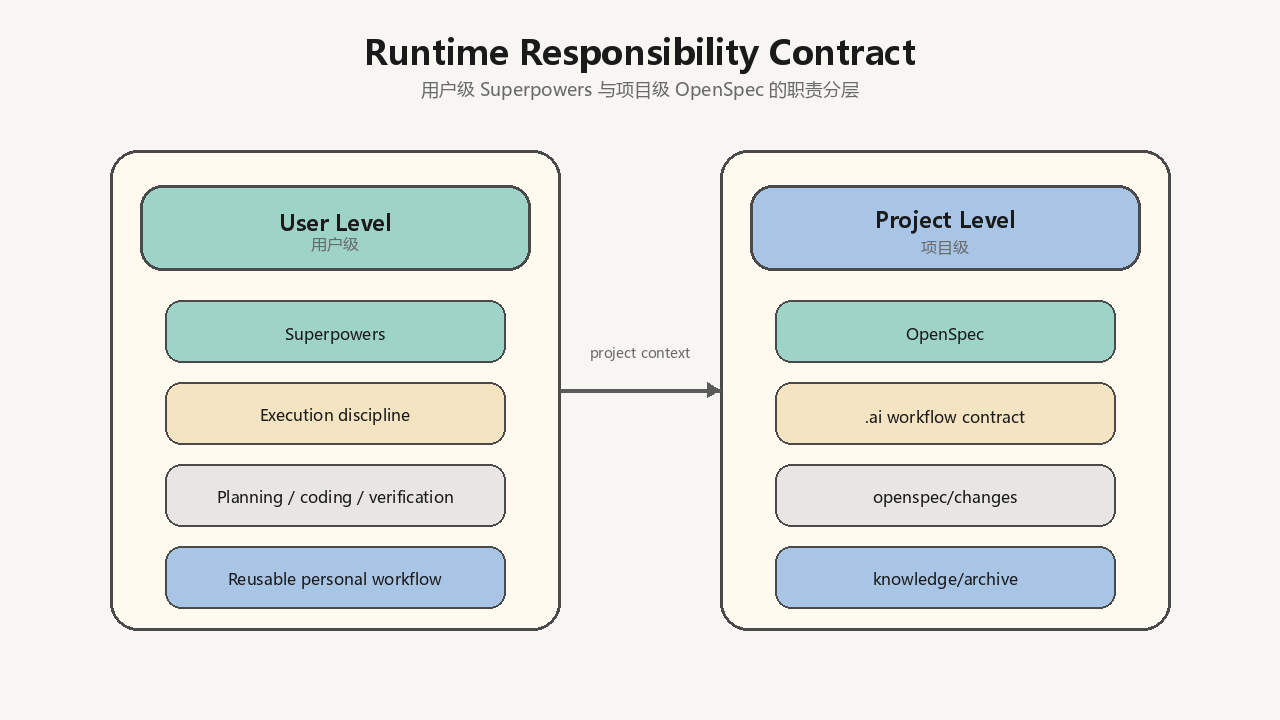
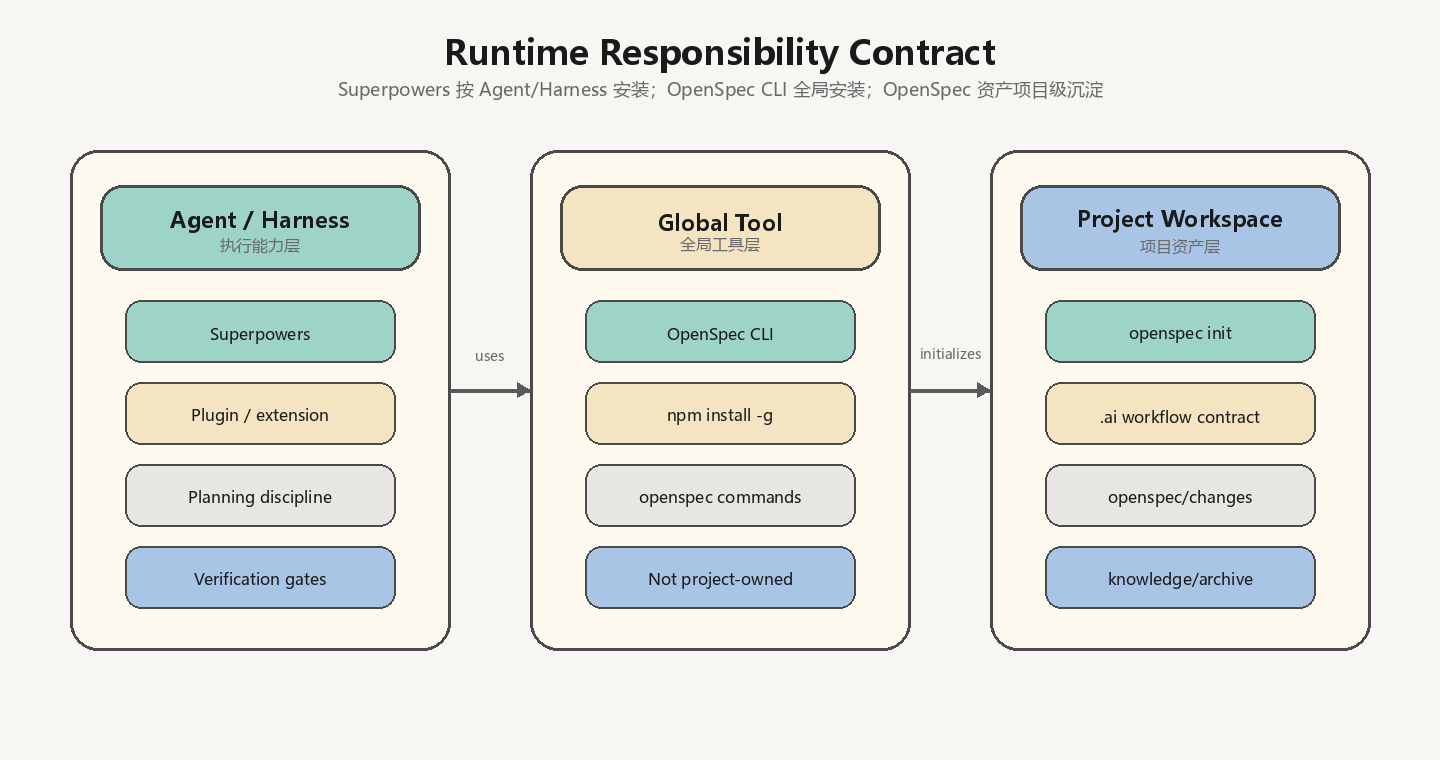
docs: clarify OpenSpec and Superpowers setup

diff --git a/scripts/render-readme-diagrams.py b/scripts/render-readme-diagrams.py
@@ -183,13 +183,14 @@ def workflow():
 
 
 def runtime_contract():
-    name, size = "runtime-contract", (1280, 720)
+    name, size = "runtime-contract", (1440, 760)
 
     def render(draw):
-        title(draw, "Runtime Responsibility Contract", "用户级 Superpowers 与项目级 OpenSpec 的职责分层", size[0])
+        title(draw, "Runtime Responsibility Contract", "Superpowers 按 Agent/Harness 安装；OpenSpec CLI 全局安装；OpenSpec 资产项目级沉淀", size[0])
         columns = [
-            (110, 150, 560, 630, "User Level", "用户级", TEAL, ["Superpowers", "Execution discipline", "Planning / coding / verification", "Reusable personal workflow"]),
-            (720, 150, 1170, 630, "Project Level", "项目级", BLUE, ["OpenSpec", ".ai workflow contract", "openspec/changes", "knowledge/archive"]),
+            (70, 150, 450, 650, "Agent / Harness", "执行能力层", TEAL, ["Superpowers", "Plugin / extension", "Planning discipline", "Verification gates"]),
+            (530, 150, 910, 650, "Global Tool", "全局工具层", BEIGE, ["OpenSpec CLI", "npm install -g", "openspec commands", "Not project-owned"]),
+            (990, 150, 1370, 650, "Project Workspace", "项目资产层", BLUE, ["openspec init", ".ai workflow contract", "openspec/changes", "knowledge/archive"]),
         ]
         for x1, y1, x2, y2, en, zh, fill, items in columns:
             rounded_box(draw, (x1, y1, x2, y2), CREAM, radius=28, width=3)
@@ -201,16 +202,19 @@ def runtime_contract():
                 rounded_box(draw, (x1 + 55, yy, x2 - 55, yy + 62), color, radius=16, width=2)
                 centered_text(draw, ((x1 + x2) / 2, yy + 31), item, F_SMALL, INK)
                 yy += 82
-        arrow(draw, (560, 390), (720, 390), 4)
-        centered_text(draw, (640, 350), "project context", F_TINY, MUTED)
+        arrow(draw, (450, 390), (530, 390), 4)
+        arrow(draw, (910, 390), (990, 390), 4)
+        centered_text(draw, (490, 350), "uses", F_TINY, MUTED)
+        centered_text(draw, (950, 350), "initializes", F_TINY, MUTED)
 
     save_png(name, size, render)
     svg = Svg(*size)
     svg.text(size[0] / 2, 58, "Runtime Responsibility Contract", 34, 700)
-    svg.text(size[0] / 2, 92, "用户级 Superpowers 与项目级 OpenSpec 的职责分层", 18, 400, MUTED)
+    svg.text(size[0] / 2, 92, "Superpowers 按 Agent/Harness 安装；OpenSpec CLI 全局安装；OpenSpec 资产项目级沉淀", 18, 400, MUTED)
     for x1, y1, x2, y2, en, zh, fill, items in [
-        (110, 150, 560, 630, "User Level", "用户级", TEAL, ["Superpowers", "Execution discipline", "Planning / coding / verification", "Reusable personal workflow"]),
-        (720, 150, 1170, 630, "Project Level", "项目级", BLUE, ["OpenSpec", ".ai workflow contract", "openspec/changes", "knowledge/archive"]),
+        (70, 150, 450, 650, "Agent / Harness", "执行能力层", TEAL, ["Superpowers", "Plugin / extension", "Planning discipline", "Verification gates"]),
+        (530, 150, 910, 650, "Global Tool", "全局工具层", BEIGE, ["OpenSpec CLI", "npm install -g", "openspec commands", "Not project-owned"]),
+        (990, 150, 1370, 650, "Project Workspace", "项目资产层", BLUE, ["openspec init", ".ai workflow contract", "openspec/changes", "knowledge/archive"]),
     ]:
         svg.box(x1, y1, x2 - x1, y2 - y1, CREAM, 28)
         svg.box(x1 + 30, y1 + 35, x2 - x1 - 60, 85, fill, 22)
@@ -222,8 +226,10 @@ def runtime_contract():
             svg.box(x1 + 55, yy, x2 - x1 - 110, 62, color, 16, STROKE, 2)
             svg.text((x1 + x2) / 2, yy + 38, item, 16, 600)
             yy += 82
-    svg.line_arrow(560, 390, 720, 390, 4)
-    svg.text(640, 350, "project context", 14, 400, MUTED)
+    svg.line_arrow(450, 390, 530, 390, 4)
+    svg.line_arrow(910, 390, 990, 390, 4)
+    svg.text(490, 350, "uses", 14, 400, MUTED)
+    svg.text(950, 350, "initializes", 14, 400, MUTED)
     svg.save(name)
 
 

diff --git a/README.md b/README.md
@@ -4,8 +4,9 @@ OSD Workflow is a lightweight project template for piloting an OpenSpec + Superp
 
 It does not implement OpenSpec or Superpowers. Instead, it defines the project-level workflow contract, rules, skill mappings, and archive structure that connect:
 
-- User-level Superpowers for AI agent execution and workflow discipline.
-- Project-level OpenSpec for requirements, specs, design decisions, acceptance criteria, and knowledge archive.
+- Agent/Harness-level Superpowers for AI agent execution and workflow discipline.
+- Globally installed OpenSpec CLI for specification operations.
+- Project-level OpenSpec workspace assets for requirements, specs, design decisions, acceptance criteria, and knowledge archive.
 
 ## Purpose
 
@@ -19,8 +20,9 @@ The goal is to validate a practical AI coding workflow before investing in heavi
 
 The recommended local setup is:
 
-- Superpowers is installed and configured at the user level.
-- OpenSpec is installed and configured at the project level.
+- Superpowers is installed per AI agent or harness, usually as a user-level plugin or extension rather than a project dependency.
+- OpenSpec CLI is installed globally, for example with `npm install -g @fission-ai/openspec@latest`.
+- Each target project runs `openspec init` and maintains its own project-level OpenSpec workspace.
 - This repository provides reusable project-level workflow assets.
 - OpenSpec change assets are stored in `openspec/changes/{feature}/`.
 - Completed requirement archives are stored in `knowledge/archive/{feature}/`.
@@ -29,9 +31,9 @@ Responsibility split:
 
 ![Runtime responsibility contract](docs/assets/readme/runtime-contract.png)
 
-Superpowers answers how the agent should execute the work.
+Superpowers answers how the agent should execute the work inside a specific AI agent or harness.
 
-OpenSpec answers why the project should change, what should change, and how it will be accepted.
+OpenSpec CLI provides the toolchain; the initialized project OpenSpec workspace answers why the project should change, what should change, and how it will be accepted.
 
 ## Project Structure
 
@@ -73,11 +75,12 @@ Stages:
 ## How To Use
 
 1. Copy `.ai/`, `openspec/`, and `knowledge/` into a real project.
-2. Configure OpenSpec for that project.
-3. Ensure each team member has Superpowers installed and configured at the user level.
-4. For each feature, create an OpenSpec change under `openspec/changes/{feature}/`.
-5. Use `.ai/workflows/feature-development.yaml` as the workflow contract.
-6. Archive completed work under `knowledge/archive/{feature}/`.
+2. Install OpenSpec CLI globally if needed: `npm install -g @fission-ai/openspec@latest`.
+3. Run `openspec init` in the target project.
+4. Ensure each team member has Superpowers installed for the AI agent or harness they use.
+5. For each feature, create an OpenSpec change under `openspec/changes/{feature}/`.
+6. Use `.ai/workflows/feature-development.yaml` as the workflow contract.
+7. Archive completed work under `knowledge/archive/{feature}/`.
 
 For prompt templates, project custom instructions, multi-agent usage, and Lark MCP integration, see `docs/USAGE.md` and `docs/USAGE_zh.md`.
 
@@ -135,7 +138,7 @@ knowledge/archive/{feature}/requirement.md
 
 ### 2. Create Project-Level OpenSpec Change
 
-Create a dedicated OpenSpec change for the requirement:
+After `openspec init` has been run in the project, create a dedicated OpenSpec change for the requirement:
 
 ![OpenSpec change package](docs/assets/readme/openspec-change.png)
 
@@ -177,9 +180,9 @@ Recommended archive target:
 knowledge/archive/{feature}/implementation.md
 ```
 
-### 5. Implement With User-Level Superpowers
+### 5. Implement With Agent/Harness-Level Superpowers
 
-Use user-level Superpowers to orchestrate the local AI agent execution flow.
+Use Superpowers from the active AI agent or harness to orchestrate the local execution flow.
 
 Project-level assets provide the context and constraints:
 

diff --git a/.ai/AI_WORKFLOW.md b/.ai/AI_WORKFLOW.md
@@ -25,8 +25,9 @@ This template is intentionally project-local and lightweight. It does not introd
 
 This workflow assumes the following local setup:
 
-- Superpowers is installed and configured at the user level.
-- OpenSpec is installed and configured at the project level.
+- Superpowers is installed per AI agent or harness, usually as a user-level plugin or extension rather than a project dependency.
+- OpenSpec CLI is installed globally, for example with `npm install -g @fission-ai/openspec@latest`.
+- Each target project runs `openspec init` and maintains its own project-level OpenSpec workspace.
 - This `.ai/` directory provides the project workflow contract, rules, and skill mapping.
 - The project stores OpenSpec change assets under `openspec/changes/{feature}/`.
 - The project stores completed requirement archives under `knowledge/archive/{feature}/`.
@@ -34,13 +35,18 @@ This workflow assumes the following local setup:
 Recommended responsibility split:
 
 ```text
-User level
+Agent / Harness level
 -> Superpowers
 -> General AI agent execution discipline
 -> Reusable personal workflow habits
 
+Global tool level
+-> OpenSpec CLI
+-> npm install -g @fission-ai/openspec@latest
+
 Project level
--> OpenSpec
+-> openspec init
+-> OpenSpec workspace assets
 -> .ai workflow, rules, and skill mapping
 -> openspec/changes
 -> knowledge/archive
@@ -48,9 +54,9 @@ Project level
 -> .codegraph
 ```
 
-Superpowers answers how the agent should execute the work.
+Superpowers answers how a specific agent or harness should execute the work.
 
-OpenSpec answers why the project should change, what should change, and how it will be accepted.
+OpenSpec CLI provides the toolchain; the initialized project OpenSpec workspace answers why the project should change, what should change, and how it will be accepted.
 
 ## Knowledge Boundaries
 
@@ -78,10 +84,10 @@ These knowledge systems stay independent and should not be merged.
 
 ## Workflow
 
-Use user-level Superpowers to orchestrate `.ai/workflows/feature-development.yaml` as the default pilot workflow:
+Use Agent/Harness-level Superpowers to orchestrate `.ai/workflows/feature-development.yaml` as the default pilot workflow:
 
 1. Requirement analysis
-2. OpenSpec creation through project-level OpenSpec
+2. OpenSpec creation through the project OpenSpec workspace
 3. Spec review
 4. Implementation planning
 5. Coding
@@ -106,8 +112,9 @@ For each real requirement, the workflow should produce:
 ## Operating Rules
 
 - Start from requirement context before implementation.
-- Treat Superpowers as the user-level workflow executor, not as project-owned content.
-- Treat OpenSpec as project-level source of truth for requirement, spec, design, and archive.
+- Treat Superpowers as Agent/Harness-level execution capability, not as project-owned content.
+- Treat OpenSpec CLI as a globally installed toolchain.
+- Treat initialized OpenSpec workspace assets as the project-level source of truth for requirement, spec, design, and archive.
 - Keep acceptance criteria explicit and testable.
 - Generate or update tests according to risk and impact.
 - Use CodeGraph for impact analysis when available.

diff --git a/docs/USAGE.md b/docs/USAGE.md
@@ -7,11 +7,15 @@ This guide explains how to use this workflow in daily multi-agent development, i
 Use this template as a project-level workflow contract.
 
 ```text
-User-level Superpowers
+Agent/Harness-level Superpowers
 -> How the AI agent should execute work
 -> Planning, sequencing, verification, review discipline
 
-Project-level OpenSpec
+Global OpenSpec CLI
+-> Installed once with npm install -g @fission-ai/openspec@latest
+-> Provides OpenSpec commands
+
+Project-level OpenSpec workspace
 -> Why the project should change
 -> What should change
 -> How the change will be accepted
@@ -118,7 +122,7 @@ Extract:
 - attachments or screenshots
 - priority and expected release constraints
 
-Then create a project-level OpenSpec change under openspec/changes/{feature}/.
+Then create a project-level OpenSpec change under openspec/changes/{feature}/ after the project has run openspec init.
 
 Required files:
 - proposal.md
@@ -188,7 +192,7 @@ When the user provides a Lark requirement, task link, bug report, feature reques
 2. Do not jump directly into coding unless the user explicitly asks to skip the spec workflow.
 3. Store OpenSpec assets under openspec/changes/{feature}/.
 4. Treat OpenSpec as the project-level source of truth for requirement, spec, design, and acceptance criteria.
-5. Use user-level Superpowers, when available and allowed, as the execution discipline for planning, coding, verification, review, and archive.
+5. Use Superpowers from the active AI agent or harness, when available and allowed, as the execution discipline for planning, coding, verification, review, and archive.
 6. Archive completed work under knowledge/archive/{feature}/.
 ```
 
@@ -286,7 +290,8 @@ Use these rules in prompts or custom instructions:
 - Keep code changes scoped to the accepted spec.
 - Map each acceptance criterion to verification evidence.
 - Archive requirement, spec, design, implementation, test, and review outputs.
-- Keep Superpowers user-level and OpenSpec project-level.
+- Keep Superpowers installed per AI agent or harness.
+- Keep OpenSpec CLI globally installed, then initialize and maintain OpenSpec assets per project.
 
 ## Minimal Prompt
 

diff --git a/docs/USAGE_zh.md b/docs/USAGE_zh.md
@@ -7,11 +7,15 @@
 这套模板应作为项目级工作流契约使用。
 
 ```text
-用户级 Superpowers
+Agent/Harness 级 Superpowers
 -> AI Agent 应该如何执行工作
 -> 计划、编排、验证、评审纪律
 
-项目级 OpenSpec
+全局 OpenSpec CLI
+-> 通过 npm install -g @fission-ai/openspec@latest 安装
+-> 提供 OpenSpec 命令能力
+
+项目级 OpenSpec 工作区
 -> 项目为什么要改
 -> 需要改什么
 -> 如何验收
@@ -118,7 +122,7 @@ powershell -ExecutionPolicy Bypass -File .\scripts\install.ps1 -Target D:\WorkPl
 - 附件或截图
 - 优先级和期望发布约束
 
-然后在 openspec/changes/{feature}/ 下创建项目级 OpenSpec 变更。
+目标项目执行 openspec init 后，在 openspec/changes/{feature}/ 下创建项目级 OpenSpec 变更。
 
 必须生成：
 - proposal.md
@@ -188,7 +192,7 @@ OpenSpec 变更准备好后停止，等待评审。
 2. 除非用户明确要求跳过规格流程，否则不要直接编码。
 3. OpenSpec 资产存放在 openspec/changes/{feature}/。
 4. OpenSpec 是项目级事实来源，负责需求、规格、设计和验收标准。
-5. 如果用户级 Superpowers 可用且被允许，则用它作为计划、编码、验证、评审和归档的执行纪律。
+5. 如果当前 AI Agent 或 Harness 中的 Superpowers 可用且被允许，则用它作为计划、编码、验证、评审和归档的执行纪律。
 6. 已完成工作归档到 knowledge/archive/{feature}/。
 ```
 
@@ -286,7 +290,8 @@ OpenSpec 变更准备好后停止，等待评审。
 - 代码变更范围必须对齐已确认规格。
 - 每条验收标准都要映射到验证证据。
 - 归档需求、规格、设计、实现、测试和评审产物。
-- 保持 Superpowers 用户级、OpenSpec 项目级。
+- Superpowers 按 AI Agent 或 Harness 安装。
+- OpenSpec CLI 全局安装，然后在每个项目内初始化并维护 OpenSpec 资产。
 
 ## 最小提示词
 

diff --git a/.ai/skills/openspec-create/SKILL.md b/.ai/skills/openspec-create/SKILL.md
@@ -4,7 +4,7 @@
 
 Convert a project requirement into an OpenSpec change package that can guide design, implementation, testing, and archive.
 
-This skill mapping assumes OpenSpec is installed and configured at the project level. It describes how the project should use OpenSpec; it does not implement OpenSpec itself.
+This skill mapping assumes OpenSpec CLI is installed globally and the target project has been initialized with `openspec init`. It describes how the project should use OpenSpec; it does not implement OpenSpec itself.
 
 ## Inputs
 
@@ -29,7 +29,7 @@ openspec/changes/{feature}/
 
 ## Steps
 
-0. Confirm project-level OpenSpec is available for the target repository.
+0. Confirm OpenSpec CLI is available and the target repository has run `openspec init`.
 1. Normalize the requirement into a concise problem statement.
 2. Extract explicit acceptance criteria.
 3. Identify affected users, systems, modules, and constraints.
@@ -88,7 +88,7 @@ openspec/changes/{feature}/
 
 ## Done Criteria
 
-- Project-level OpenSpec is the source of truth for the change package.
+- The project-level OpenSpec workspace is the source of truth for the change package.
 - The change has a dedicated `openspec/changes/{feature}/` directory.
 - Proposal, spec, and design are present.
 - Acceptance criteria are testable.

diff --git a/openspec/README.md b/openspec/README.md
@@ -1,12 +1,13 @@
 # OpenSpec Project Workspace
 
-This directory is reserved for project-level OpenSpec assets.
+This directory is reserved for project-level OpenSpec workspace assets.
 
 The recommended local setup is:
 
-- Install and configure OpenSpec for this project.
+- Install OpenSpec CLI globally, for example `npm install -g @fission-ai/openspec@latest`.
+- Run `openspec init` in each target project.
 - Store active changes under `openspec/changes/{feature}/`.
 - Keep proposal, spec, and design files versioned with the project.
 - Treat OpenSpec as the source of truth for requirement intent, design decisions, and acceptance criteria.
 
-User-level Superpowers may orchestrate the workflow, but OpenSpec knowledge belongs to the project.
+Agent/Harness-level Superpowers may orchestrate the workflow, but OpenSpec knowledge belongs to the project workspace.

diff --git a/.ai/skills/knowledge-archive/SKILL.md b/.ai/skills/knowledge-archive/SKILL.md
@@ -4,7 +4,7 @@
 
 Archive each completed requirement as a reusable engineering knowledge unit.
 
-The archive belongs to the project-level OpenSpec knowledge system. User-level Superpowers may trigger the archive step, but the archived knowledge must stay with the project.
+The archive belongs to the project-level OpenSpec workspace. Agent/Harness-level Superpowers may trigger the archive step, but the archived knowledge must stay with the project.
 
 ## Inputs
 

diff --git a/.ai/skills/test-generation/SKILL.md b/.ai/skills/test-generation/SKILL.md
@@ -4,7 +4,7 @@
 
 Generate focused verification for the accepted OpenSpec change using the strongest available context.
 
-This step is expected to be orchestrated by user-level Superpowers. OpenSpec remains the project-level source for acceptance criteria.
+This step is expected to be orchestrated by Agent/Harness-level Superpowers. The project-level OpenSpec workspace remains the source for acceptance criteria.
 
 ## Context Priority
 

diff --git a/.ai/skills/implementation-plan/SKILL.md b/.ai/skills/implementation-plan/SKILL.md
@@ -4,7 +4,7 @@
 
 Translate an accepted OpenSpec change into a concrete implementation plan before editing code.
 
-This step is expected to be orchestrated by user-level Superpowers using project-level OpenSpec context.
+This step is expected to be orchestrated by Agent/Harness-level Superpowers using project-level OpenSpec workspace context.
 
 ## Inputs
 
